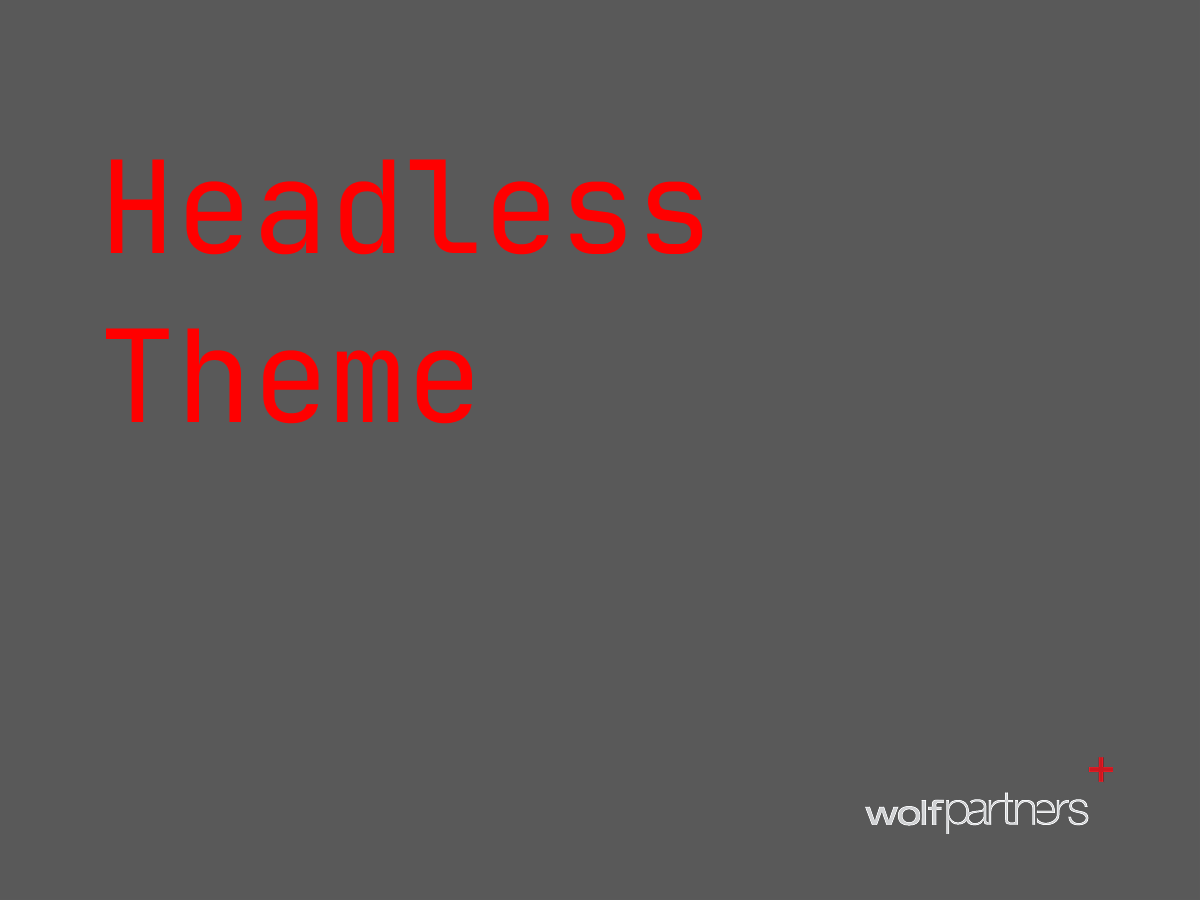
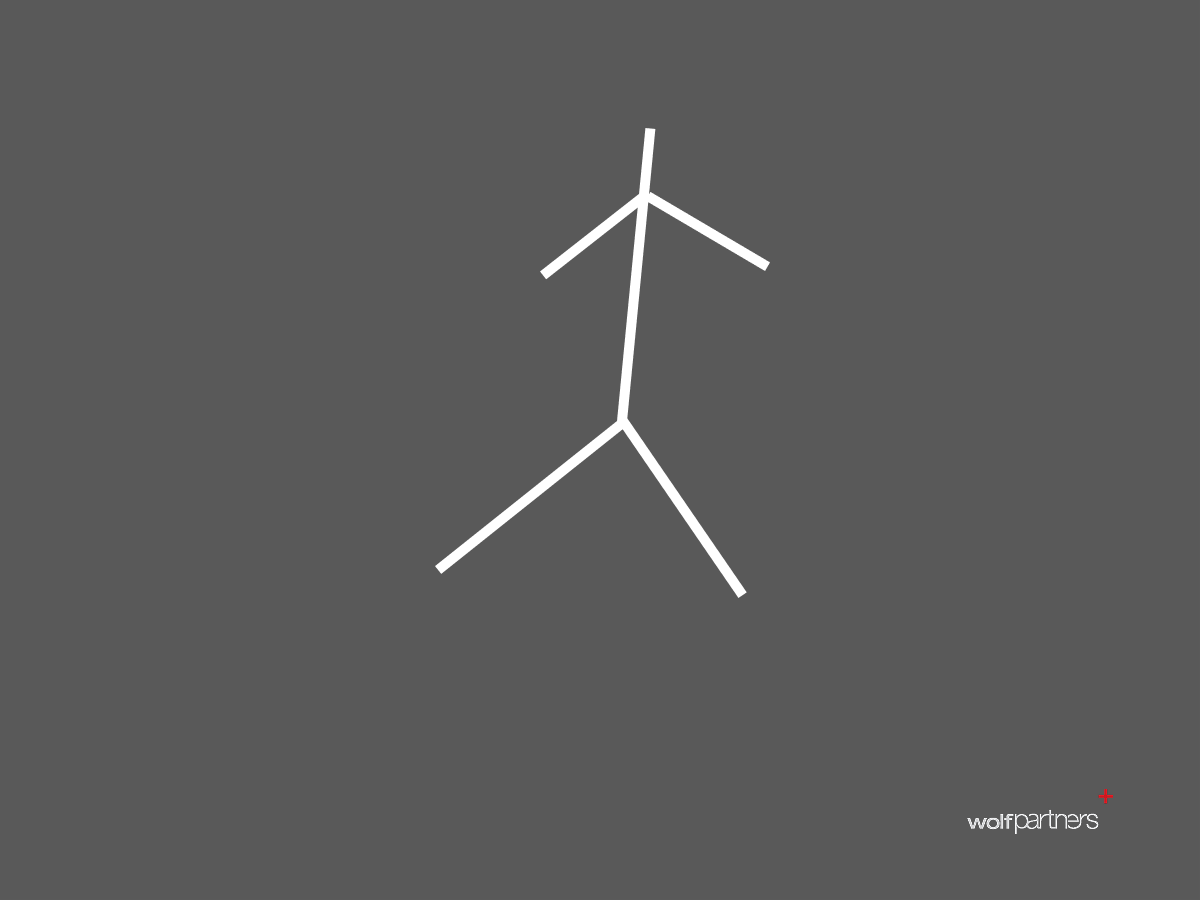
Change name and screenshot

diff --git a/functions.php b/functions.php
@@ -1,7 +1,7 @@
 <?php
 
 /**
- * Headless Theme functions and definitions.
+ * Headless - Theme functions and definitions.
  */
 
 // Adicionar menu de configurações ao painel admin

diff --git a/README.md b/README.md
@@ -1,1 +1,1 @@
-# Headless Theme - A blank theme with page redirect for your Wordpress Headless
+# Headless - A blank theme with page redirect for your Wordpress Headless
